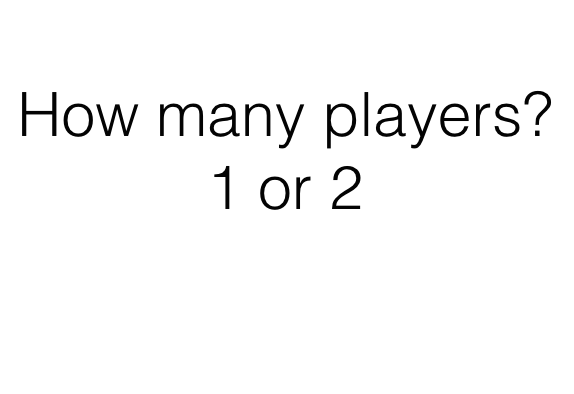
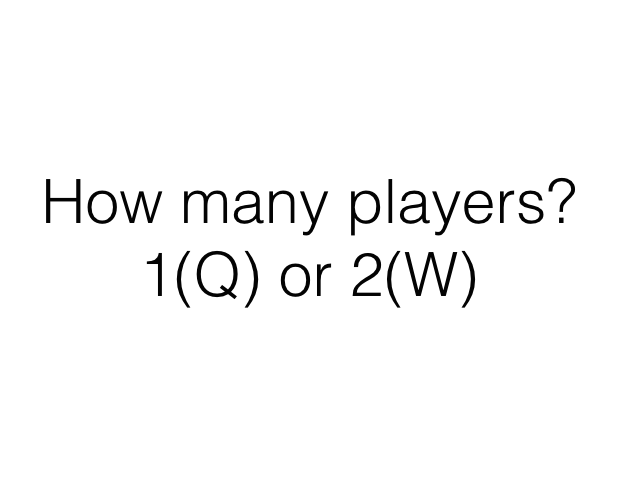
config

Changed region(s): [[0.5627, 0.2132, 0.9774, 0.6396], [0.2369, 0.2437, 0.5331, 0.6396], [0.0296, 0.2437, 0.2666, 0.4873]]

diff --git a/core/src/com/dirtycrew/dirtyame/ConfigState.java b/core/src/com/dirtycrew/dirtyame/ConfigState.java
@@ -23,12 +23,12 @@ public class ConfigState implements IGameState {
 
     @Override
     public void update(Dirty game, float delta) {
-        if (Gdx.input.isKeyPressed(Input.Keys.NUM_1)){
+        if (Gdx.input.isKeyPressed(Input.Keys.Q)){
             game.setNumPlayers(1);
             game.gameManager.changeState(GameManager.GameState.Start);
         }
 
-        if (Gdx.input.isKeyPressed(Input.Keys.NUM_2)){
+        if (Gdx.input.isKeyPressed(Input.Keys.W)){
             game.setNumPlayers(2);
             game.gameManager.changeState(GameManager.GameState.Start);
         }
